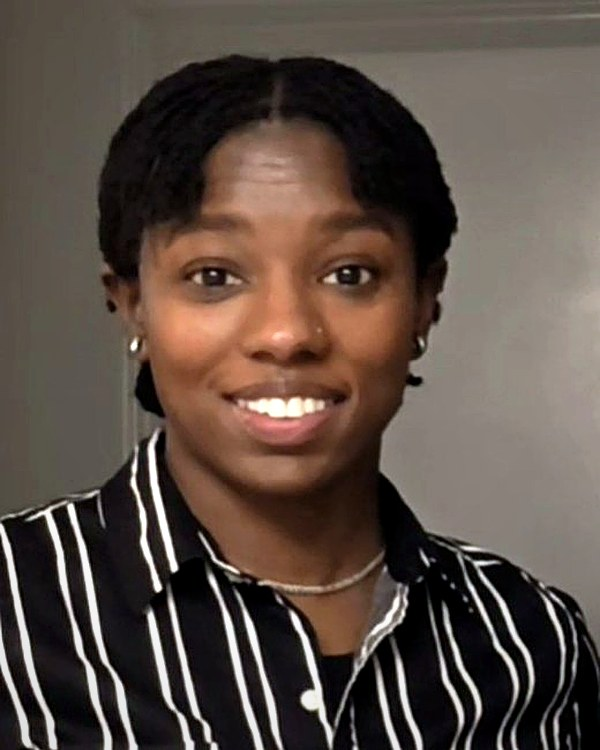
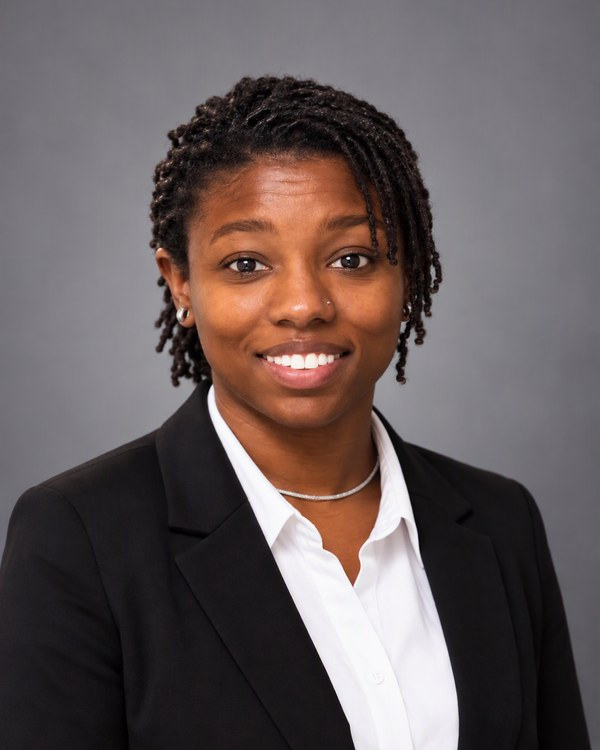
Update site for Data Solutions Lead II role and new headshot (#140)
* Update role to Data Solutions Lead II

Reflects the new position at Coca-Cola Consolidated across the About
section and the site's identity metadata.

About section (components/Portfolio.jsx):
- "By day" quick fact: Business Analyst -> Data Solutions Lead II
- Bio paragraph opener updated to the new title

Site identity:
- Poster tagline: "Business analyst & software engineer" ->
  "Data solutions lead & software engineer"
- schema.org Person jobTitle -> "Data Solutions Lead II"
- Person description and the page/OG/Twitter descriptions updated to
  match, so search results and link previews agree with the site

The four project entries keep role: "IT Business Analyst II" — that
work was done in that role, so the attribution stays accurate.

Claude-Session: https://claude.ai/code/session_01Uapd9B37377M4q1JyS7bY6

* Describe the Data Solutions Lead II role in the About section

The title had been updated, but the surrounding copy still described the
IT Business Analyst II work. Both spots now match the actual role.

- Bio: replaces "leading requirements definition for a cross-functional
  Agile scrum team of 10+ and mentoring other analysts on process mapping
  and AI tooling" with the Data Products & Analytics work — translating
  ambiguous problems into structured solutions, defining KPIs and decision
  frameworks, aligning stakeholders, and leading from framing to delivery
- "Leads" quick fact: mentoring BA I analysts -> complex, high-visibility
[…]

diff --git a/components/Portfolio.jsx b/components/Portfolio.jsx
@@ -430,7 +430,7 @@ function Poster({ view, go }) {
         </span>
         <span className="dp-id-text">
           <span className="dp-name">Jazz Harris</span>
-          <span className="dp-role" aria-hidden="true">Business analyst &amp; software engineer</span>
+          <span className="dp-role" aria-hidden="true">Data solutions lead &amp; software engineer</span>
         </span>
       </button>
 
@@ -986,8 +986,8 @@ function About({ go }) {
               <p className="dp-sub">Quick facts</p>
               <div className="dp-about-facts">
                 <div className="dp-fact"><FiMapPin aria-hidden="true" /><div><span className="dp-fact-l">Based in</span><span className="dp-fact-v">Charlotte, NC</span></div></div>
-                <div className="dp-fact"><FiBriefcase aria-hidden="true" /><div><span className="dp-fact-l">By day</span><span className="dp-fact-v">Business Analyst · Coca-Cola Consolidated</span></div></div>
-                <div className="dp-fact"><FiUsers aria-hidden="true" /><div><span className="dp-fact-l">Leads</span><span className="dp-fact-v">Mentors BA I analysts on process mapping &amp; AI tooling adoption</span></div></div>
+                <div className="dp-fact"><FiBriefcase aria-hidden="true" /><div><span className="dp-fact-l">By day</span><span className="dp-fact-v">Data Solutions Lead II · Coca-Cola Consolidated</span></div></div>
+                <div className="dp-fact"><FiUsers aria-hidden="true" /><div><span className="dp-fact-l">Leads</span><span className="dp-fact-v">Complex, high-visibility data &amp; AI initiatives, from framing to delivery</span></div></div>
                 <div className="dp-fact"><FiBookOpen aria-hidden="true" /><div><span className="dp-fact-l">Studied</span><span className="dp-fact-v">B.A. Computer Science · Elon University</span></div></div>
                 <div className="dp-fact"><FiGlobe aria-hidden="true" /><div><span className="dp-fact-l">Studied abroad</span><span className="dp-fact-v">Dublin, Ireland · <a className="dp-link" href={FIE_BLOG} target="_blank" rel="noreferrer">FIE</a></span></div></div>
               </div>
@@ -1021,7 +1021,7 @@ function About({ go }) {
             <p className="dp-label">About</p>
             <h2 className="dp-detail-h">Analyst by training, builder by craft.</h2>
             <p className="dp-p">I studied Computer Science at Elon University, with minors in Art History and Digital Art, a blend that shapes how I work: technical problem-solving with a designer's eye. I also studied abroad in Dublin through FIE (Foundation for International Education), completing a software-engineering internship and writing about it on the <a className="dp-link" href={FIE_BLOG} target="_blank" rel="noreferrer">program blog</a>. Since then I've worked across both the technical and business sides of software, turning complex ideas into solutions that create real value.</p>
-            <p className="dp-p">Today I'm a Business Analyst at Coca-Cola Consolidated, leading requirements definition for a cross-functional Agile scrum team of 10+ and mentoring other analysts on process mapping and AI tooling. Outside of work, through <a className="dp-link" href="https://jazzharrisstudio.com" target="_blank" rel="noreferrer">Jazz Harris Studio</a>, I build websites, custom software, and tools for businesses and entrepreneurs, most recently Valora, a personal finance platform. When I'm not behind a screen: traveling, Legos, and anything with four wheels or two.</p>
+            <p className="dp-p">Today I'm a Data Solutions Lead II at Coca-Cola Consolidated, on the Data Products &amp; Analytics team, where I take the business's most ambiguous problems and turn them into structured solutions — defining the KPIs and decision frameworks, aligning stakeholders, and leading the work from framing through delivery with data, AI, and automation. Outside of work, through <a className="dp-link" href="https://jazzharrisstudio.com" target="_blank" rel="noreferrer">Jazz Harris Studio</a>, I build websites, custom software, and tools for businesses and entrepreneurs, most recently Valora, a personal finance platform. When I'm not building something: traveling, hiking, Legos, anime, gaming, anything with four wheels or two, and taking my dog Echo on adventures at the Whitewater Center.</p>
           </div>
 
           <details className="dp-acc dp-acc-skills">

diff --git a/pages/index.js b/pages/index.js
@@ -13,10 +13,10 @@ const STRUCTURED_DATA = {
       alternateName: "Maura Harris",
       url: `${SITE_URL}/`,
       image: `${SITE_URL}/jazz-headshot.jpg`,
-      jobTitle: "Business Analyst & Software Engineer",
+      jobTitle: "Data Solutions Lead II",
       email: "mailto:mauraharris948@gmail.com",
       description:
-        "Business analyst and software engineer who bridges business goals and software engineering to build digital products that deliver measurable results.",
+        "Data solutions lead and software engineer who bridges business goals and software engineering to build digital products that deliver measurable results.",
       worksFor: { "@type": "Organization", name: "Coca-Cola Consolidated" },
       alumniOf: { "@type": "CollegeOrUniversity", name: "Elon University" },
       knowsAbout: [
@@ -51,7 +51,7 @@ export default function Home() {
         <title>Jazz Harris · Portfolio</title>
         <meta
           name="description"
-          content="Business analyst and software engineer. I bridge business goals and software engineering to build digital products that deliver measurable results."
+          content="Data solutions lead and software engineer. I bridge business goals and software engineering to build digital products that deliver measurable results."
         />
         <meta
           name="viewport"
@@ -65,7 +65,7 @@ export default function Home() {
         <meta property="og:title" content="Jazz Harris · Portfolio" />
         <meta
           property="og:description"
-          content="Business analyst and software engineer. Selected projects and contact."
+          content="Data solutions lead and software engineer. Selected projects and contact."
         />
         <meta property="og:image" content={`${SITE_URL}/assets/og.png`} />
         <meta property="og:image:width" content="1200" />
@@ -75,7 +75,7 @@ export default function Home() {
         <meta name="twitter:title" content="Jazz Harris · Portfolio" />
         <meta
           name="twitter:description"
-          content="Business analyst and software engineer. Selected projects and contact."
+          content="Data solutions lead and software engineer. Selected projects and contact."
         />
         <meta name="twitter:image" content={`${SITE_URL}/assets/og.png`} />
 
